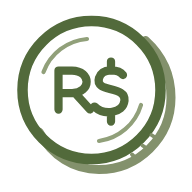
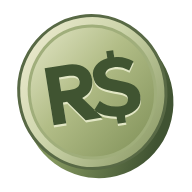
Cunha moeda sólida em oliva com transparência externa

diff --git a/sw.js b/sw.js
@@ -1,6 +1,6 @@
 // Guarda a "casca" do painel para abrir sem internet. Os DADOS nunca passam por aqui.
-const VERSAO = 'v7';
-const CASCA = ['./', 'index.html', 'pagamento.css', 'pagamento.js', 'manifest.webmanifest', 'icons/real-180.png', 'icons/real-192.png', 'icons/real-512.png'];
+const VERSAO = 'v8';
+const CASCA = ['./', 'index.html', 'pagamento.css', 'pagamento.js', 'manifest.webmanifest', 'icons/cunhada-180.png', 'icons/cunhada-192.png', 'icons/cunhada-512.png'];
 
 self.addEventListener('install', e => {
   e.waitUntil(caches.open(VERSAO).then(c => c.addAll(CASCA)).then(() => self.skipWaiting()));

diff --git a/index.html b/index.html
@@ -15,8 +15,8 @@
   // Sem manifesto, o ícone guarda o endereço completo. No Android o manifesto continua.
   if (!/iPhone|iPad|iPod/.test(navigator.userAgent)) document.write('<link rel="manifest" href="manifest.webmanifest">');
 </script>
-<link rel="apple-touch-icon" sizes="180x180" href="icons/real-180.png">
-<link rel="icon" href="icons/real-192.png">
+<link rel="apple-touch-icon" sizes="180x180" href="icons/cunhada-180.png">
+<link rel="icon" href="icons/cunhada-192.png">
 <style>
   :root {
     --bg: #0b0f17; --card: #141a26; --card2: #1b2333; --linha: rgba(255,255,255,.07);
